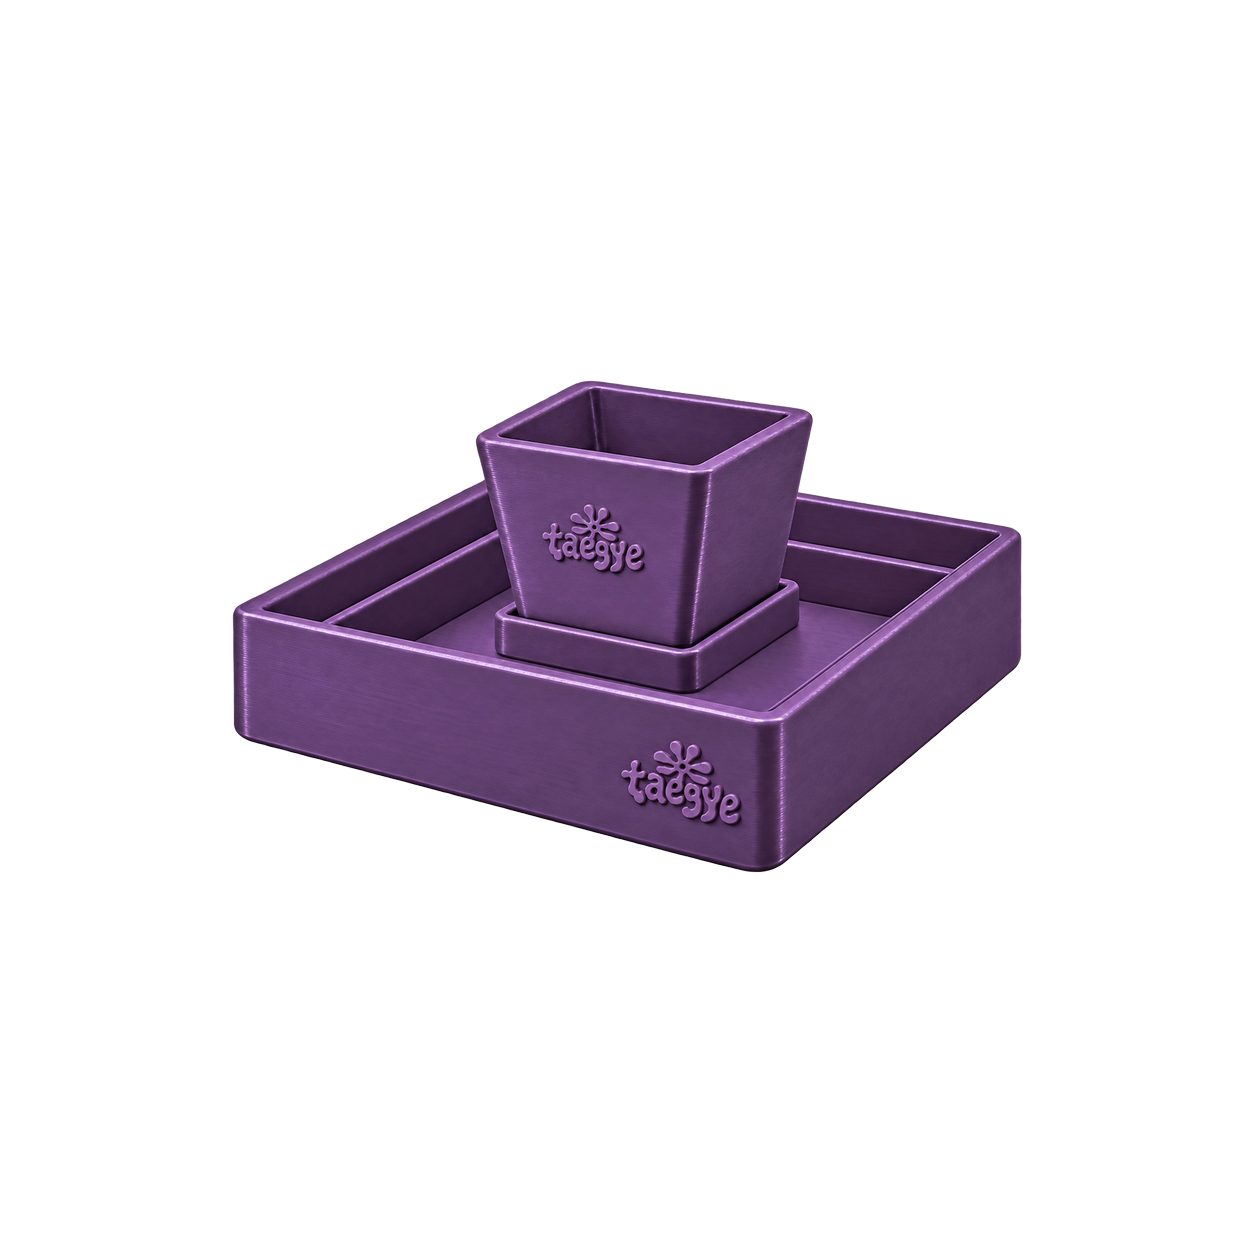
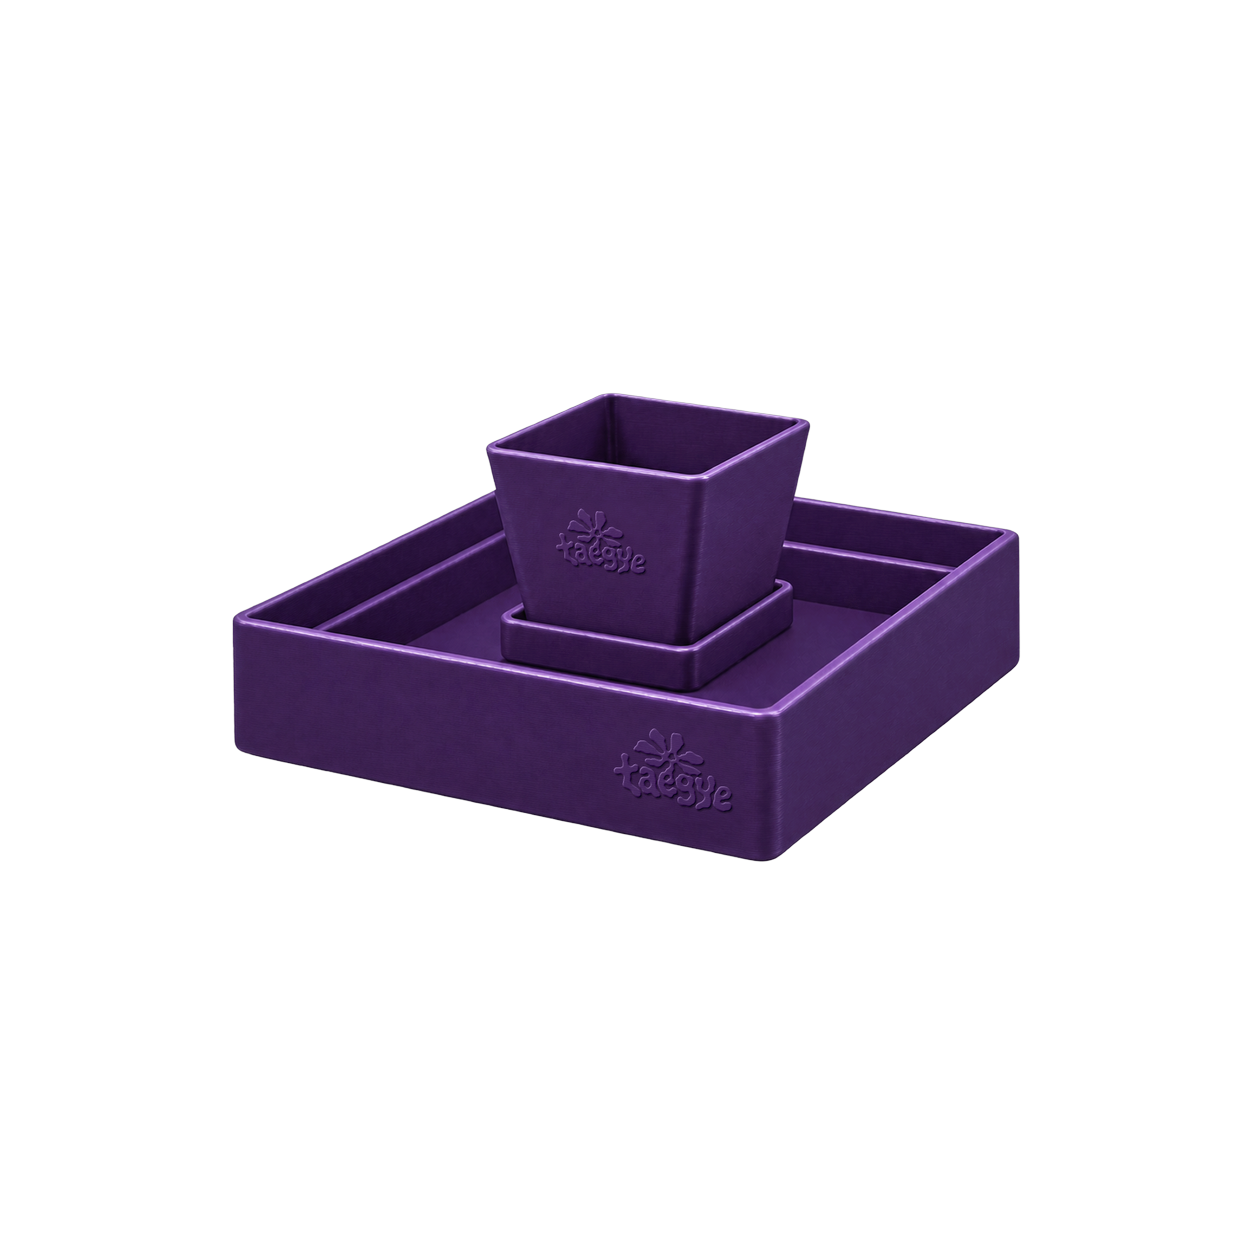
Replace One Port 141 empty and planted photos.
HOLLOW, MIST, ODD, and VOID use the new renders on the same 1254 square, centered at the previous product width, with the planted cut on hover and in the gallery.

Changed region(s): [[0.1866, 0.2799, 0.8397, 0.7153]]

diff --git a/src/lib/site.ts b/src/lib/site.ts
@@ -496,8 +496,10 @@ export const NEW_PRODUCTS: NewProduct[] = [
     dimensions: "",
     planting: "",
     price: MINI_PORT_HOLLOW_PRICE,
-    emptySrc: "/products/mini-port-hollow.png?v=3",
+    emptySrc: "/products/mini-port-hollow.png?v=4",
+    mossSrc: "/products/mini-port-hollow-planted.png?v=4",
     emptyAlt: `TAEGYE One Port 141, ${finishLabel("HOLLOW")}`,
+    mossAlt: `TAEGYE One Port 141, ${finishLabel("HOLLOW")} with plant`,
   },
   {
     id: "mini-port-purple",
@@ -508,8 +510,10 @@ export const NEW_PRODUCTS: NewProduct[] = [
     dimensions: "",
     planting: "",
     price: MINI_PORT_PRICE,
-    emptySrc: "/products/mini-port-purple.png?v=3",
+    emptySrc: "/products/mini-port-purple.png?v=4",
+    mossSrc: "/products/mini-port-purple-planted.png?v=4",
     emptyAlt: `TAEGYE One Port 141, ${finishLabel("ODD")}`,
+    mossAlt: `TAEGYE One Port 141, ${finishLabel("ODD")} with plant`,
   },
   {
     id: "mini-port-black",
@@ -520,8 +524,10 @@ export const NEW_PRODUCTS: NewProduct[] = [
     dimensions: "",
     planting: "",
     price: MINI_PORT_PRICE,
-    emptySrc: "/products/mini-port-black.png?v=3",
+    emptySrc: "/products/mini-port-black.png?v=4",
+    mossSrc: "/products/mini-port-black-planted.png?v=4",
     emptyAlt: `TAEGYE One Port 141, ${finishLabel("VOID")}`,
+    mossAlt: `TAEGYE One Port 141, ${finishLabel("VOID")} with plant`,
   },
   {
     id: "mini-port-white",
@@ -532,8 +538,10 @@ export const NEW_PRODUCTS: NewProduct[] = [
     dimensions: "",
     planting: "",
     price: MINI_PORT_PRICE,
-    emptySrc: "/products/mini-port-white.png?v=3",
+    emptySrc: "/products/mini-port-white.png?v=4",
+    mossSrc: "/products/mini-port-white-planted.png?v=4",
     emptyAlt: `TAEGYE One Port 141, ${finishLabel("MIST")}`,
+    mossAlt: `TAEGYE One Port 141, ${finishLabel("MIST")} with plant`,
   },
   {
     id: "one-port-purple",
